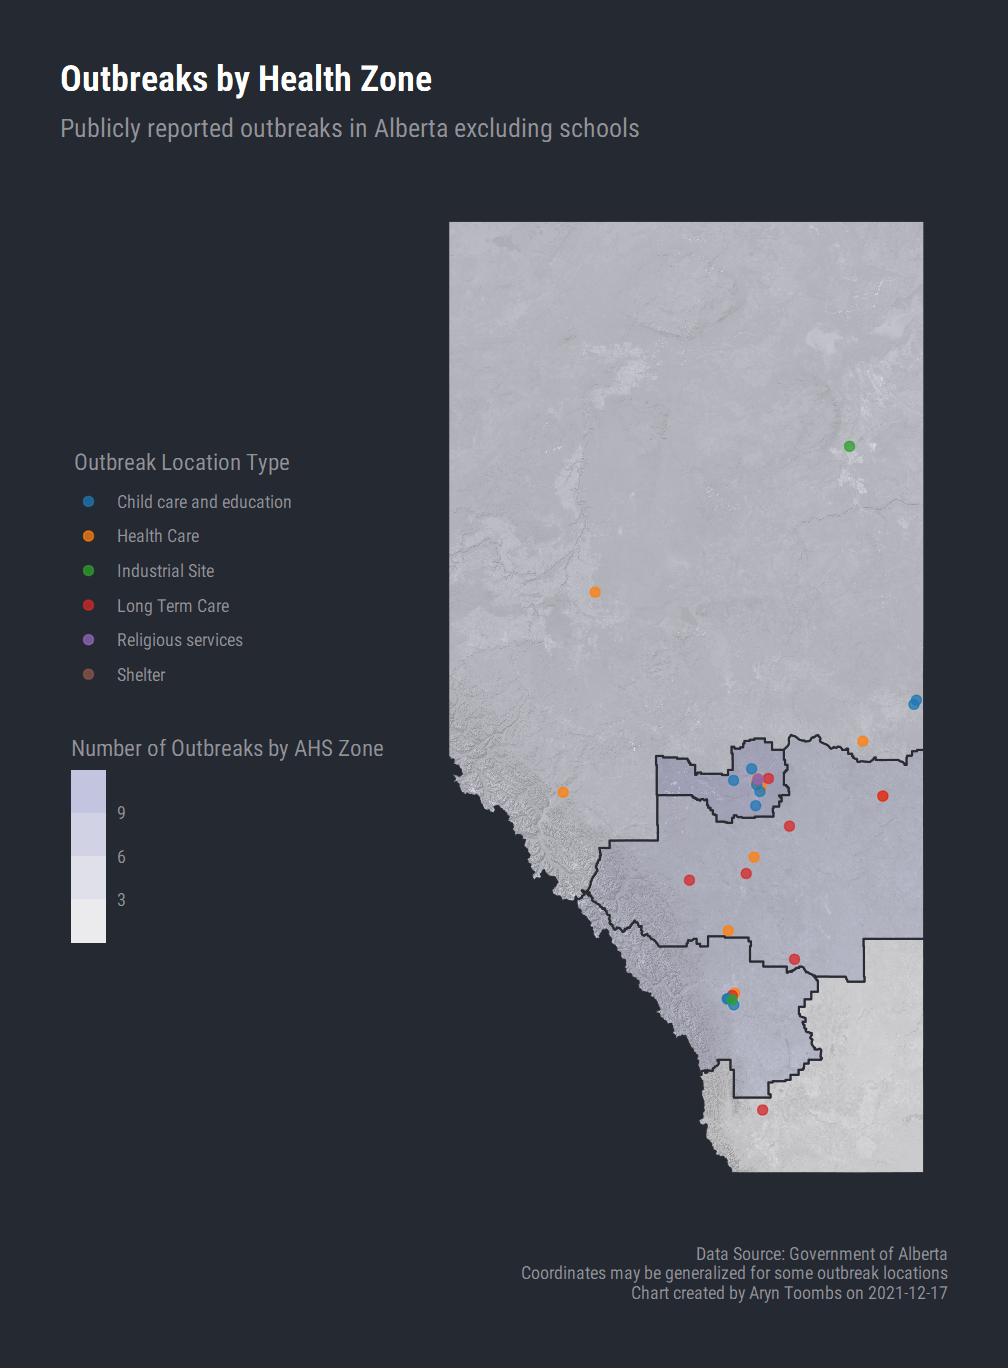
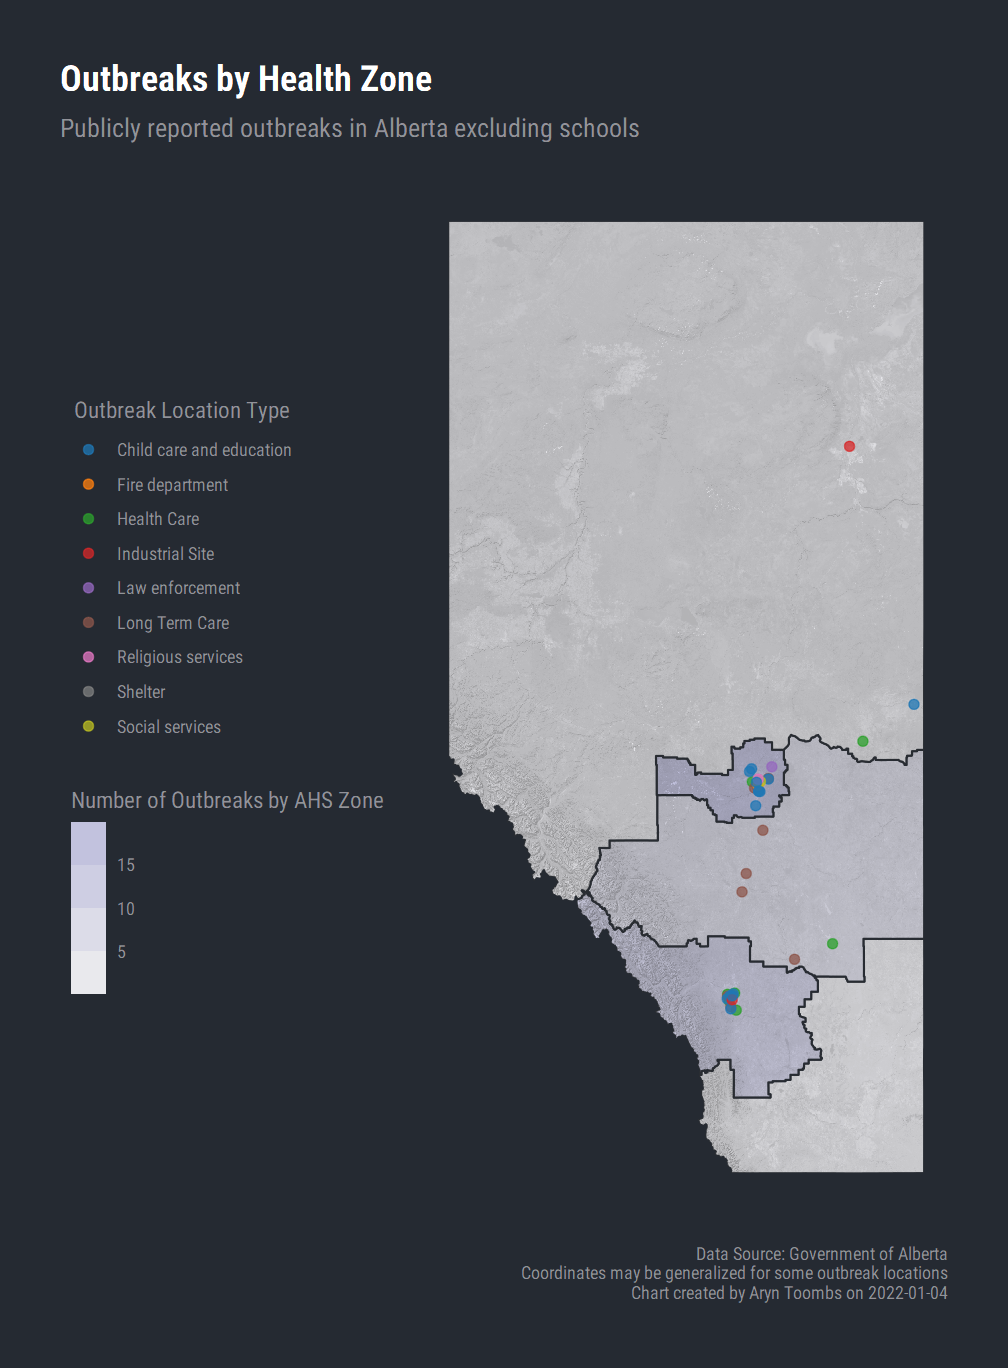
update

diff --git a/outbreaks/index.html b/outbreaks/index.html
@@ -22,7 +22,7 @@
         "datePublished": "2021-04-02T22:46:30Z",
         "dateModified" : "2021-04-02T22:46:30Z",
         "url" : "\/outbreaks\/",
-        "wordCount" : "98",
+        "wordCount" : "93",
         "keywords" : [ "Blog" ]
     }
 </script>
@@ -37,7 +37,7 @@
 <meta itemprop="name" content="Outbreaks">
 <meta itemprop="description" content="Covid-19 Outbreaks in Alberta"><meta itemprop="datePublished" content="2021-04-02T00:00:00&#43;00:00" />
 <meta itemprop="dateModified" content="2021-04-02T00:00:00&#43;00:00" />
-<meta itemprop="wordCount" content="98">
+<meta itemprop="wordCount" content="93">
 <meta itemprop="keywords" content="" />
 <meta property="og:title" content="Outbreaks" />
 <meta property="og:description" content="Covid-19 Outbreaks in Alberta" />
@@ -170,7 +170,7 @@
       Calgary Zone
     </div>
     <div class="row box-bottom justify-content-center">
-      <h4>7</h4>
+      <h4>14</h4>
     </div>
   </div>
   <div class="col-sm ml-1 mr-1">
@@ -178,7 +178,7 @@
       Edmonton Zone
     </div>
     <div class="row box-bottom justify-content-center">
-      <h4>12</h4>
+      <h4>19</h4>
     </div>
   </div>
   <div class="col-sm ml-1 mr-1">
@@ -186,7 +186,7 @@
       South Zone
     </div>
     <div class="row box-bottom justify-content-center">
-      <h4>1</h4>
+      <h4>0</h4>
     </div>
   </div>
   <div class="col-sm ml-1 mr-1">
@@ -194,7 +194,7 @@
       Central Zone
     </div>
     <div class="row box-bottom justify-content-center">
-      <h4>7</h4>
+      <h4>6</h4>
     </div>
   </div>
   <div class="col-sm ml-1 mr-1">
@@ -202,12 +202,12 @@
       North Zone
     </div>
     <div class="row box-bottom justify-content-center">
-      <h4>6</h4>
+      <h4>3</h4>
     </div>
   </div>
 </div>
 <div class="row mb-3 pr-1 pt-1 justify-content-end">
-  <p class="m-1"><i class="bi bi-info-circle-fill"></i> Covid-19 outbreaks (not including schools, see below) current as of Fri, Dec 17, 2021. AHS non-school outbreak data updated on Tuesdays and Fridays.</p>
+  <p class="m-1"><i class="bi bi-info-circle-fill"></i> Covid-19 outbreaks (not including schools, see below) current as of Tue, Jan 04, 2022. AHS non-school outbreak data updated on Tuesdays and Fridays.</p>
 </div>
   <div class="row pl-3">
     <h4 class="body-display">Outbreak Charts</h4>
@@ -215,28 +215,9 @@
   <div class="row justify-content-center">
     <div class="col-md-8 pl-0 pr-0">
       <img class="img-fluid" src="../ZONES_Outbreaks.png">
-      <p><i class="bi bi-info-circle-fill"></i> Alberta Schools are not included on this map after January 18th, 2021 as the criteria for outbreaks in schools changed.</p>
-    </div>
-    <div class="col-12 pl-0 pr-0">
-      <img class="img-fluid" src="../All_Outbreaks.png">
+      <p><i class="bi bi-info-circle-fill"></i> Alberta Schools are not included on this map after January 18th, 2021 as the criteria for outbreaks in schools changed. Alberta is currently performing limited contact tracing, and the number of disclosed outbreaks may not be accurate to the actual number of outbreaks in the province.</p>
     </div>
   </div>
-  <div class="row pl-3">
-    <h4 class="body-display">Animated Outbreak Charts</h4>
-  </div>
-  <div class="row justify-content-center">
-    <div class="col-md-12 pl-0 pr-0 justify-content-center">
-      <video id="my-video" class="video-js" controls preload="auto" width="1000" height="594" poster="../outbreaks-line-animate-static.jpg" data-setup="{}" style="display: block; margin: 0 auto;">
-      <source src="../outbreaks-line-animate.mp4" type="video/mp4" />
-      <p class="vjs-no-js">
-        To view this video please enable JavaScript, and consider upgrading to a
-        web browser that supports HTML5 video</a>
-      </p>
-      </video>
-      <p><i class="bi bi-info-circle-fill"></i> Outbreak data in video updated up to May 7, 2021.</p>
-    </div>
-  </div>
-<script src="https://vjs.zencdn.net/7.11.4/video.min.js"></script>
 </div>
 
 
